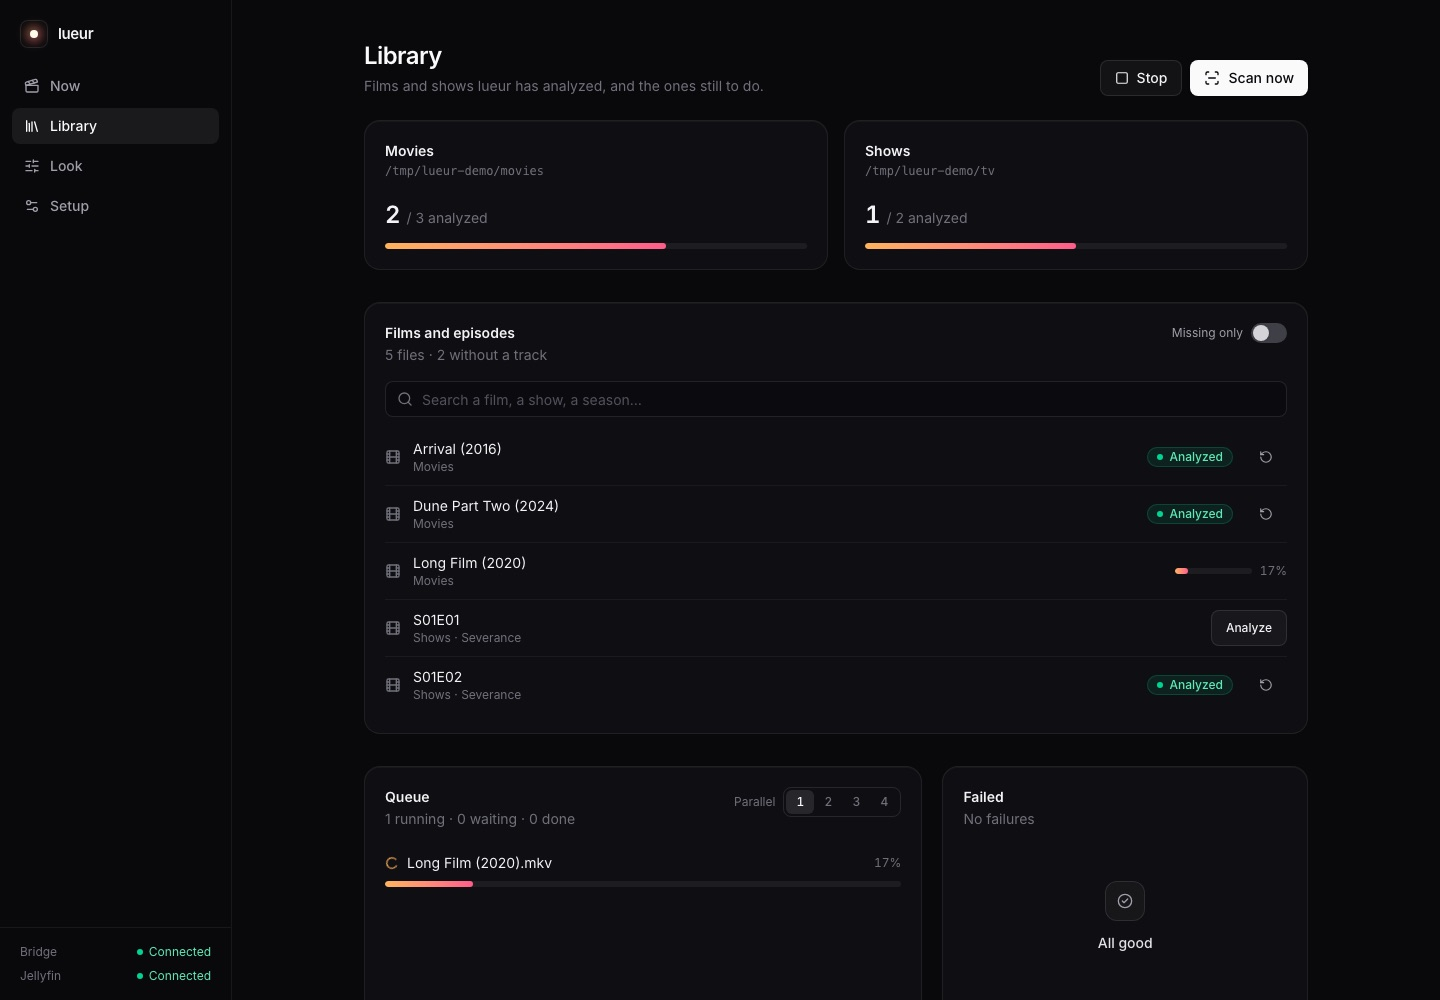
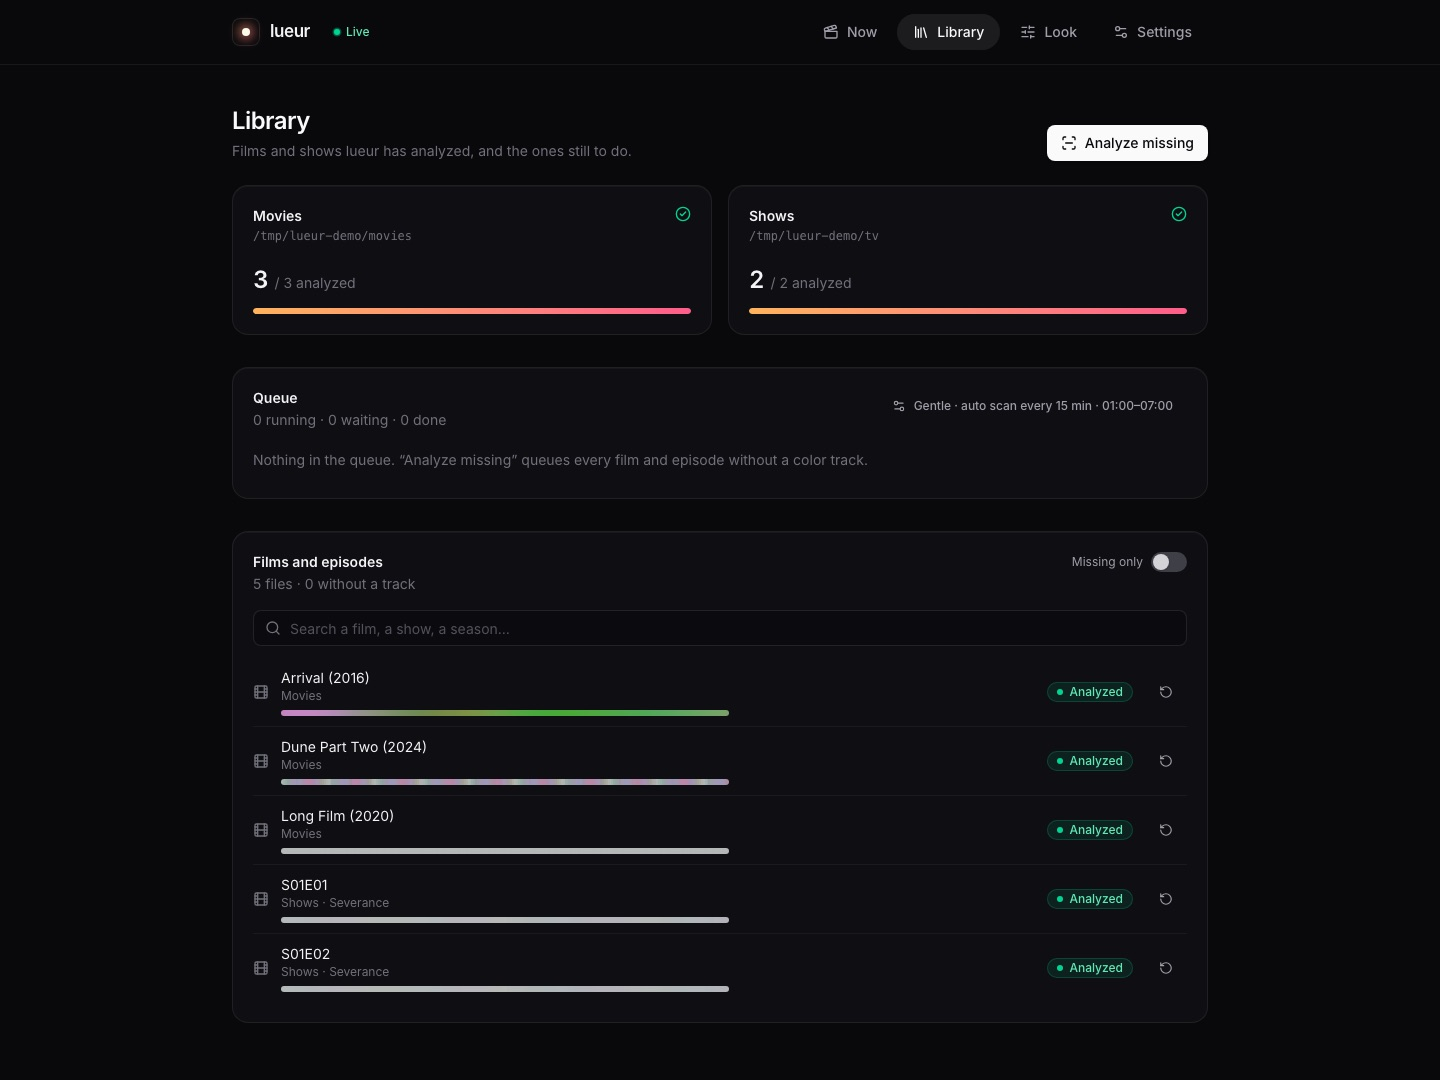
docs(readme): screenshots of the current UI

diff --git a/README.md b/README.md
@@ -12,7 +12,7 @@ No Sync Box, no PC, no Hue Sync app: each film is analyzed once, then your light
 ![React](https://img.shields.io/badge/React-19-61dafb?logo=react&logoColor=black)
 ![Umbrel](https://img.shields.io/badge/Umbrel-community%20app-5351fb)
 
-<img src="docs/screenshots/now.jpg" alt="Now playing: the film, and each light of the entertainment area with its live color" />
+<img src="docs/screenshots/now.jpg" alt="Now playing: the film, the sync offset, and each light of the entertainment area with its live color" />
 
 </div>
 
@@ -45,7 +45,7 @@ No Sync Box, no PC, no Hue Sync app: each film is analyzed once, then your light
 
 <table>
   <tr>
-    <td width="68%"><img src="docs/screenshots/library.jpg" alt="Library: analyzed films and episodes, queue" /></td>
+    <td width="68%"><img src="docs/screenshots/library.jpg" alt="Library: analyzed films and episodes with their barcodes, and the queue" /></td>
     <td width="32%"><img src="docs/screenshots/mobile.jpg" alt="Now playing on a phone" /></td>
   </tr>
 </table>
@@ -94,7 +94,7 @@ The image is amd64, tagged `latest`, `x.y` and `x.y.z`. `--device /dev/dri` is o
 2. In lueur → Setup, pick your bridge and press its link button.
 3. Lights late or early on cuts? Use **Sync offset** on the Now page (±0.1 s buttons).
 
-<img src="docs/screenshots/look.jpg" alt="Look: brightness, saturation, smoothing and sync offset with a live preview" />
+<img src="docs/screenshots/look.jpg" alt="Look: test on a frame of a film, brightness, saturation, warm greys and a live preview" />
 
 ## 🛠 Develop
 
